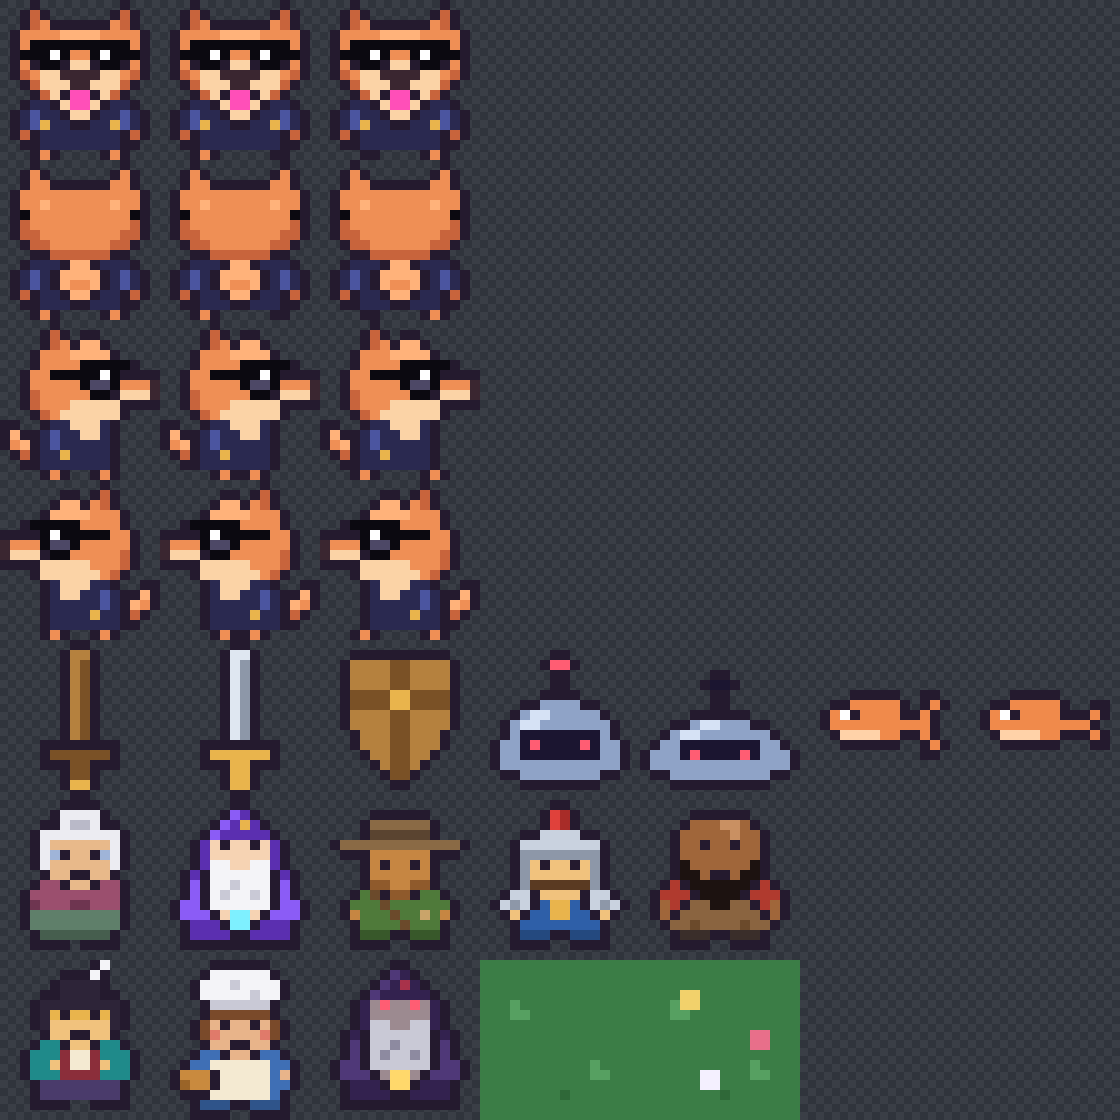
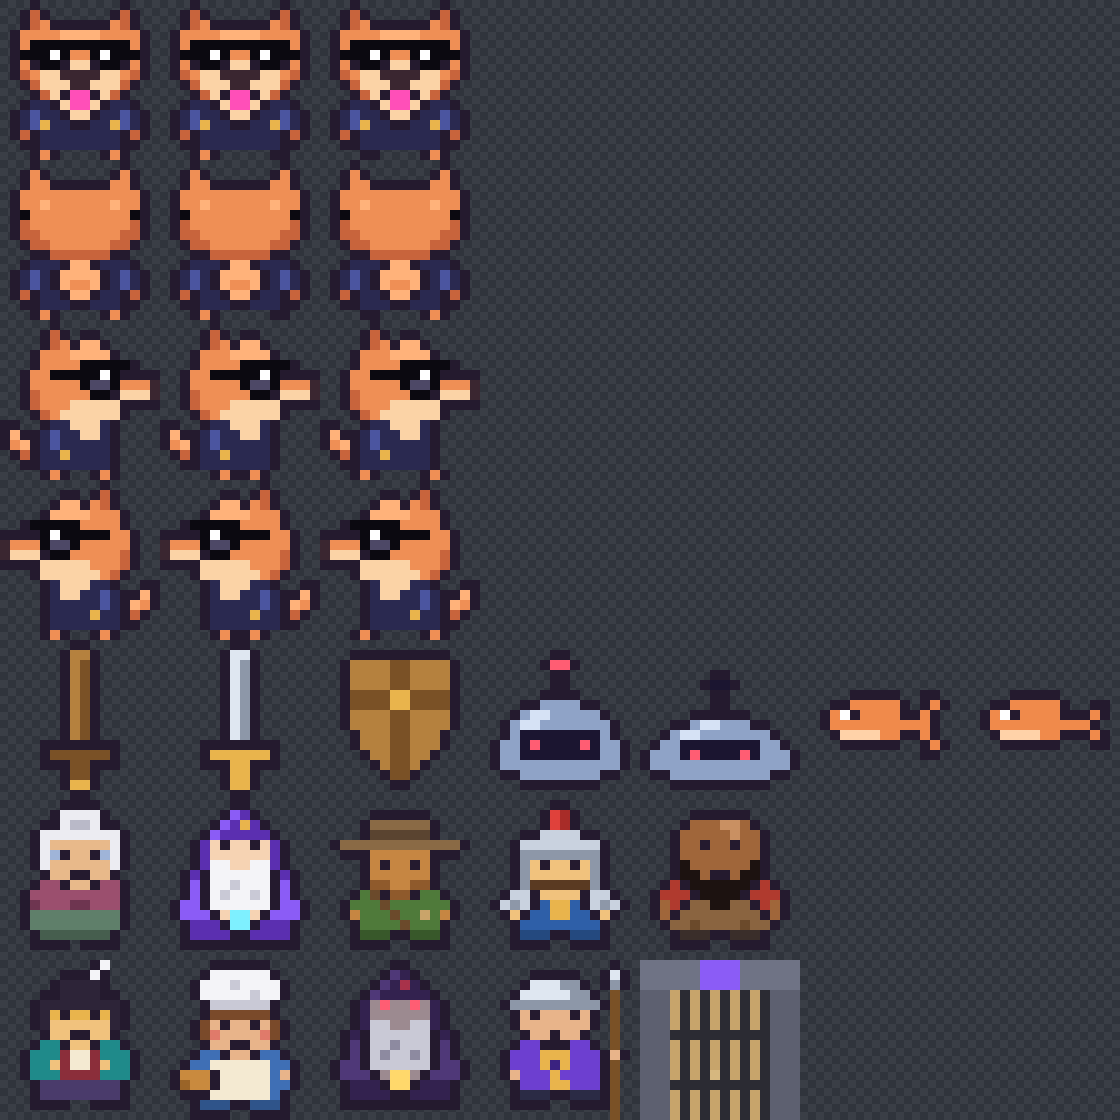
feat(art): draw a gate guard with a spear and a Pomerium-purple tabard

Changed region(s): [[0.4062, 0.8438, 0.7188, 1.0]]

diff --git a/app/src/game/sheets.ts b/app/src/game/sheets.ts
@@ -2,6 +2,6 @@
 export const SHEETS = {
   dog: '/assets/dog.png?v=0be57c5f01',
   items: '/assets/items.png?v=384674e5ad',
-  npcs: '/assets/npcs.png?v=2b5d2ba69a',
+  npcs: '/assets/npcs.png?v=0a14d991e9',
   tiles: '/assets/tiles.png?v=0aa01ab445',
 } as const
